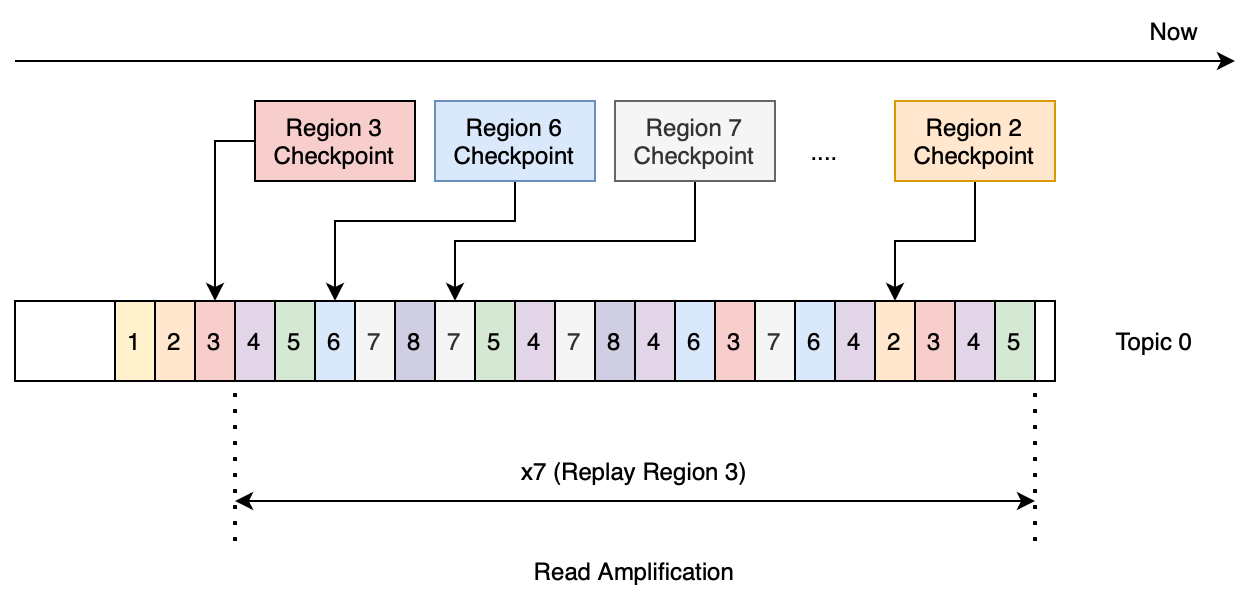
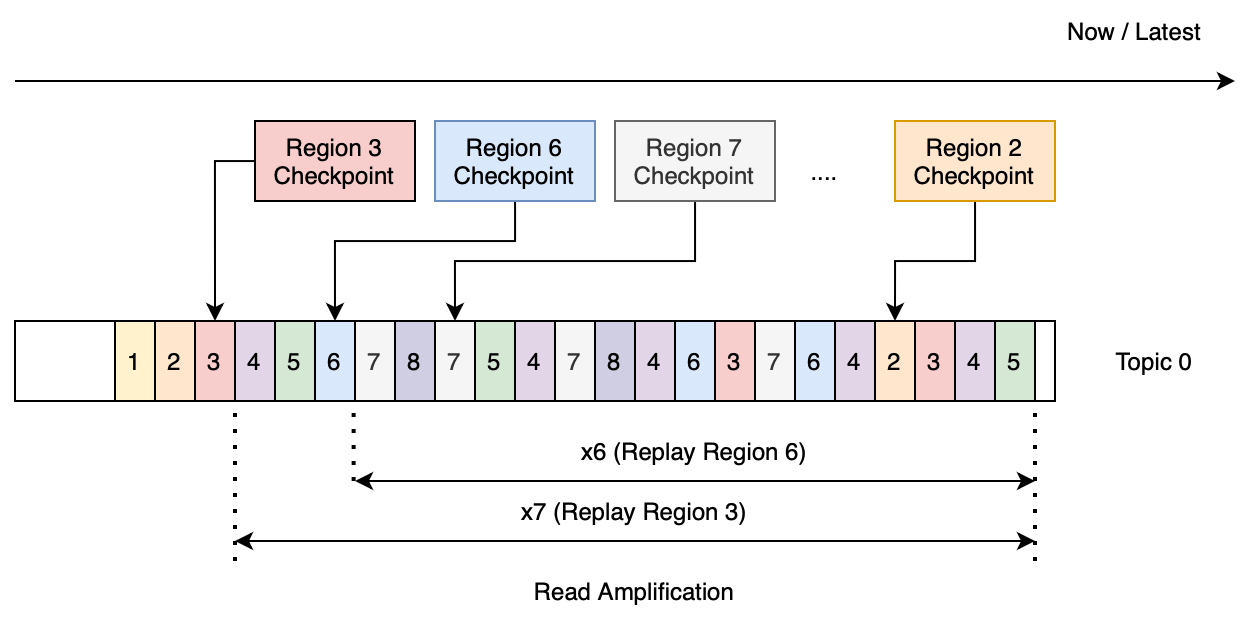
chore: apply suggestions from CR

diff --git a/docs/nightly/en/user-guide/operations/region-failover.md b/docs/nightly/en/user-guide/operations/region-failover.md
@@ -50,7 +50,7 @@ For example, configure 128 topics for [metasrv](/user-guide/operations/configura
 
 A simple model to estimate the read amplification factor (replay data size/actual data size):
 
-- For a single topic, the amplification factor is 1 + 2 + ... + 7 = 28 times (Region WAL data distribution is shown in the Figure 1).
+- For a single topic, if we try to replay all regions that belong to the topic, then the amplification factor would be 7+6+...+1 = 28 times. (The Region WAL data distribution is shown in the Figure 1. Replaying Region 3 will read 7 times redundant data larger than the actual size; Region 6 will read 6 times, and so on)
 - When recovering 100 regions (requiring about 13 topics), the amplification factor is approximately 28 \* 13 = 364 times.
 
 | Number of regions per Topic | Number of topics required for 100 Regions | Single topic read amplification factor | Total reading amplification factor | Replay data size (GB) |
@@ -76,6 +76,10 @@ A simple model to estimate the read amplification factor (replay data size/actua
 
 <sub>\*: Assuming the unflushed data size is 0.5GB.</sub>
 <sub>\**Replay data size: The total size of WAL data that needs to be read to reconstruct the memory state.</sub>
+
 ### Suggestions for improving recovery time
-We have calculated the recovery time under different Number of regions per Topic configuration for reference. If you are very sensitive to recovery time, we recommend that each region have its topic(i.e., Number of regions per Topic is 1).
+
+We have calculated the recovery time under different Number of regions per Topic configuration for reference.
+In actual scenarios, the read amplification may be larger than this model.
+If you are very sensitive to recovery time, we recommend that each region have its topic(i.e., Number of regions per Topic is 1).
 
